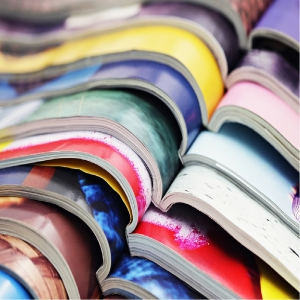
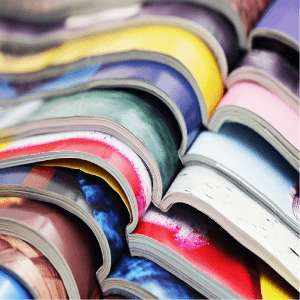
compresser les img

diff --git a/index.html b/index.html
@@ -32,7 +32,7 @@
     <meta name=”twitter:image” content="favicon.jpg"/>   
 
 
-    <title>La chouette agence Entreprise de webdesign à Lyon</title>
+    <title>La chouette agence de web design à Lyon</title>
 
     
 <!-- Analytics -->
@@ -50,7 +50,7 @@
 
 		<nav class="navbar row">
 			<div class="navbar-header">
-				<a class="navbar-brand" href="index.html"><img src="img/la-chouette-agence.png" title="logo-du-site" alt="la chouette agence design de Lyon"/></a>
+				<a class="navbar-brand" href="index.html"><img src="img/la-chouette-agence.jpg" title="logo-du-site" alt="la chouette agence design de Lyon"/></a>
 			</div>
 			<div class="collapse navbar-collapse navbar-1 special-dropdown-nav">
 				<ul class="site-navigation nav navbar-nav">
@@ -167,7 +167,7 @@
 		</div>
 		<div class="row tight-width-whitespace portfolio-row">
 			<div class="col-sm-6">
-				<a href="#" data-lightbox="img/1.jpg" data-gallery-id="gallery-1" data-caption="Refonte d'un site web pour un journal local" data-frame="snapshot-lb"><img src="img/1.jpg" title="agence-de-web-design" alt="paris web design logo agence web meilleure agence et refonte site web journal" class="img-responsive portfolio-thumb" /></a>
+				<a href="#" data-lightbox="img/1.png" data-gallery-id="gallery-1" data-caption="Refonte d'un site web pour un journal local" data-frame="snapshot-lb"><img src="img/1.jpg" title="agence-de-web-design" alt="paris web design logo agence web meilleure agence et refonte site web journal" class="img-responsive portfolio-thumb" /></a>
 				<h3 class="mg-md text-center">
 					Refonte d'un site web pour un journal local
 				</h3>
@@ -187,7 +187,7 @@
 		</div>
 		<div class="row tight-width-whitespace portfolio-row">
 			<div class="col-sm-6">
-				<a href="#" data-lightbox="img/3.bmp" data-gallery-id="gallery-1" data-caption="Création d'un site internet pour un voyageur" data-frame="snapshot-lb"><img src="img/3.bmp" class="img-responsive portfolio-thumb" title="la-chouette-agence" alt="paris web design logo agence web meilleure agence, Création d'un site web pour voyageur"/></a>
+				<a href="#" data-lightbox="img/3.png" data-gallery-id="gallery-1" data-caption="Création d'un site internet pour un voyageur" data-frame="snapshot-lb"><img src="img/3.bmp" class="img-responsive portfolio-thumb" title="la-chouette-agence" alt="paris web design logo agence web meilleure agence, Création d'un site web pour voyageur"/></a>
 				<h3 class="mg-md text-center">
 					Création d'un site internet pour un voyageur
 				</h3>
@@ -196,7 +196,7 @@
 				</p>
 			</div>
 			<div class="col-sm-6">
-				<a href="#" data-lightbox="img/4.bmp" data-gallery-id="gallery-1" data-caption="Conception d'un site pour une agence de mariage" data-frame="snapshot-lb"><img src="img/4.bmp" class="img-responsive portfolio-thumb" title="agence-de-lyon" alt="paris web design logo agence web meilleure agence, Création d'un site web pour agence de mariage" /></a>
+				<a href="#" data-lightbox="img/4.png" data-gallery-id="gallery-1" data-caption="Conception d'un site pour une agence de mariage" data-frame="snapshot-lb"><img src="img/4.bmp" class="img-responsive portfolio-thumb" title="agence-de-lyon" alt="paris web design logo agence web meilleure agence, Création d'un site web pour agence de mariage" /></a>
 				<h3 class="mg-md text-center">
 					Conception d'un site pour une agence de mariage
 				</h3>
